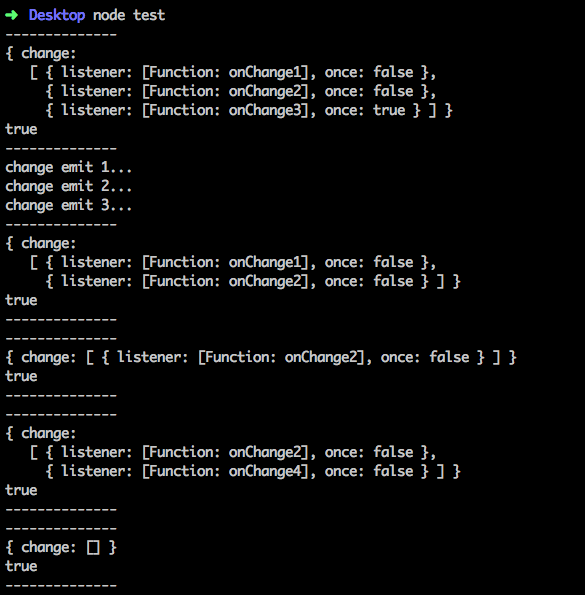
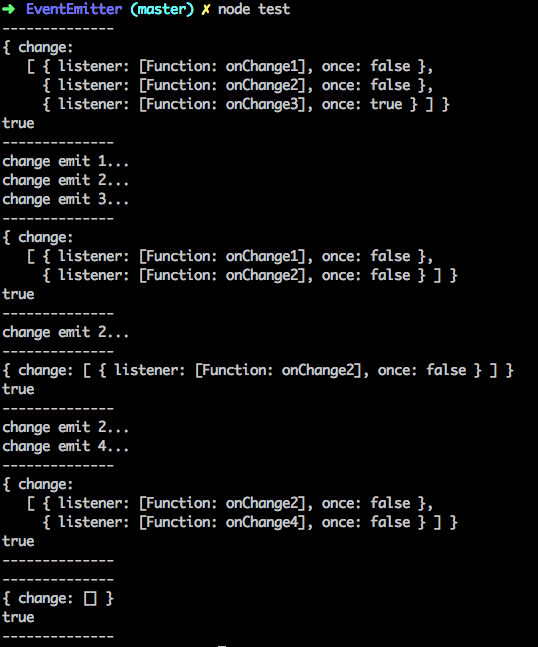
up

Changed region(s): [[0.0, 0.0, 0.9517, 0.9983], [0.3866, 0.9983, 0.4461, 1.0]]

diff --git a/test.js b/test.js
@@ -39,6 +39,7 @@ console.log(all.change.length === 2);
 console.log('--------------');
 
 events.off('change', onChange1);
+events.emit('change');
 
 console.log('--------------');
 all = events.getListenersAsObject('change');
@@ -47,6 +48,7 @@ console.log(all.change.length === 1);
 console.log('--------------');
 
 events.on('change', onChange4);
+events.emit('change');
 
 console.log('--------------');
 all = events.getListenersAsObject('change');
@@ -55,6 +57,7 @@ console.log(all.change.length === 2);
 console.log('--------------');
 
 events.destory('change');
+events.emit('change');
 
 console.log('--------------');
 all = events.getListenersAsObject('change');
